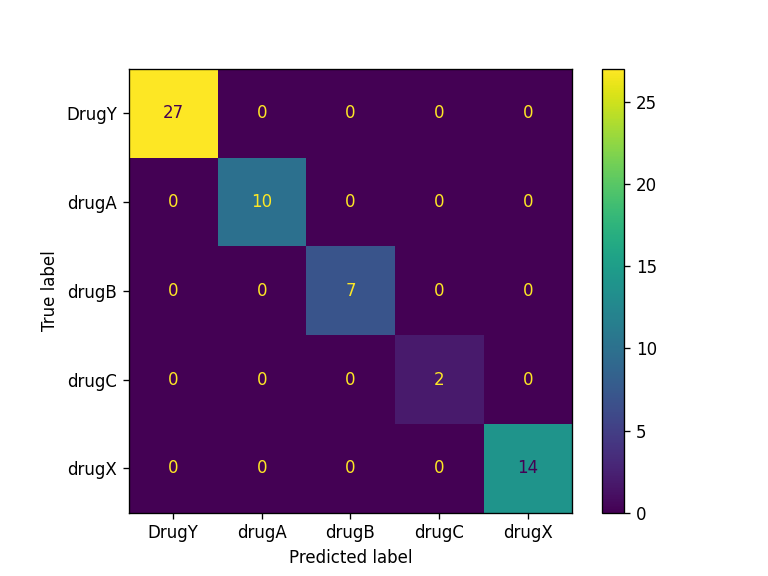
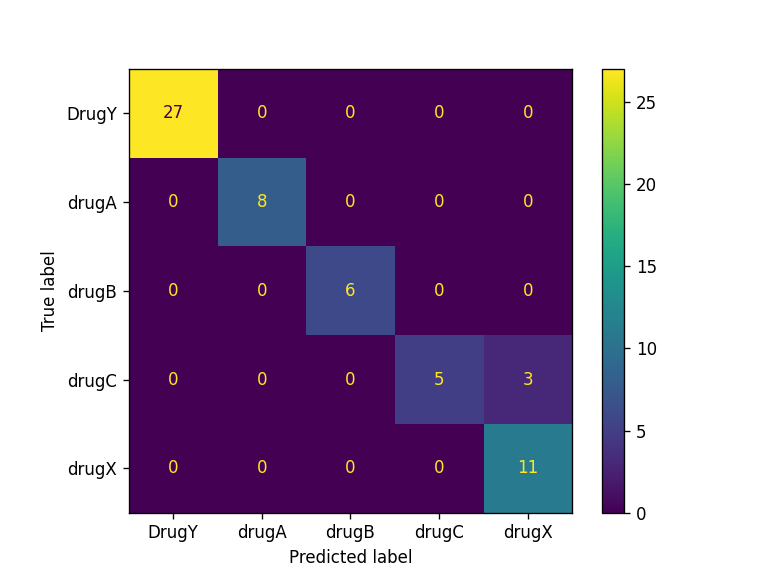
Update: evaluation results

Changed region(s): [[0.5, 0.5625, 0.75, 0.9062], [0.4375, 0.5, 0.4688, 0.5312], [0.3125, 0.3438, 0.3438, 0.375]]

diff --git a/report.md b/report.md
@@ -1,0 +1,5 @@
+## Model Metrics
+
+Accuracy = 0.95, F1 Score = 0.93.
+## Confusion Matrix Plot
+![Confusion Matrix](./Results/model_results.png)
